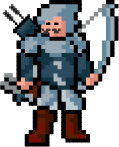
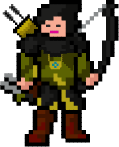
Raider character cleanup
Add more roles, swap out images and polish raider box component

diff --git a/src/data/caseStudies/aragon.js b/src/data/caseStudies/aragon.js
@@ -1,7 +1,7 @@
 import PixelArcher from '../../images/characters/archer.png'
 import PixelPaladin from '../../images/characters/paladin.png'
 import PixelWarrior from '../../images/characters/warrior.png'
-import PixelRanger from '../../images/characters/ranger.png'
+import PixelMonk from '../../images/characters/monk.png'
 import videoSrc from '../../images/portfolio/aragon-videomock-medium.mp4'
 import videoSmallSrc from '../../images/portfolio/aragon-videomock-small.mp4'
 import headerImage from '../../images/portfolio/aragon-displays-600.png'
@@ -50,8 +50,7 @@ export default {
     {
       name: 'proofoftom',
       role: 'Project Lead',
-      image: PixelRanger,
-      // Image needs update once we have a monk
+      image: PixelMonk,
     },
   ],
   productLink: 'https://stats.aragon.network/',

diff --git a/src/data/caseStudies/SBV.js b/src/data/caseStudies/SBV.js
@@ -1,6 +1,6 @@
 import PixelArcher from '../../images/characters/archer.png'
-import PixelPaladin from '../../images/characters/paladin.png'
 import PixelWarrior from '../../images/characters/warrior.png'
+import PixelMonk from '../../images/characters/monk.png'
 import videoSrc from '../../images/portfolio/sbv-videomock-medium.mp4'
 import videoSmallSrc from '../../images/portfolio/sbv-videomock-small.mp4'
 import headerImage from '../../images/portfolio/1up-displays-600.png'
@@ -39,7 +39,7 @@ export default {
     {
       name: 'Burrrata',
       role: 'Project Management',
-      image: PixelPaladin,
+      image: PixelMonk,
     },
   ],
   productLink: 'https://senaryblockchain.ventures/',

diff --git a/src/data/caseStudies/oneup.js b/src/data/caseStudies/oneup.js
@@ -1,4 +1,5 @@
 import PixelArcher from '../../images/characters/archer.png'
+import PixelMonk from '../../images/characters/monk.png'
 import PixelPaladin from '../../images/characters/paladin.png'
 import PixelWarrior from '../../images/characters/warrior.png'
 import videoSrc from '../../images/portfolio/oneup-videomock-medium.mp4'
@@ -40,12 +41,12 @@ export default {
     {
       name: 'Dekan',
       role: 'Development',
-      image: PixelWarrior,
+      image: PixelPaladin,
     },
     {
       name: 'Eric',
       role: 'Project Management',
-      image: PixelPaladin,
+      image: PixelMonk,
     },
   ],
   productLink: 'https://1up.world/',

diff --git a/src/components/shared/portfolio/RaiderBox.js b/src/components/shared/portfolio/RaiderBox.js
@@ -3,7 +3,9 @@ import React from 'react'
 const RaiderBox = ({ raiderName, raiderRole, characterImage }) => (
   <div className="RaiderBox">
     <div>
-      <img src={characterImage} alt="character type" />
+      <div className="ImageBox">
+        <img src={characterImage} alt="character type" />
+      </div>
       <p>{raiderName}</p>
     </div>
     <div className="TextRight">

diff --git a/src/styles/portfolio.scss b/src/styles/portfolio.scss
@@ -176,8 +176,12 @@
     margin: 0;
     padding: 10px 0 0 20px;
   }
+  .ImageBox {
+    width: 60px;
+  }
   img {
     max-height: 50px;
+    margin: 0 auto;
   }
   code.tag {
     font-size: 0.4em;
